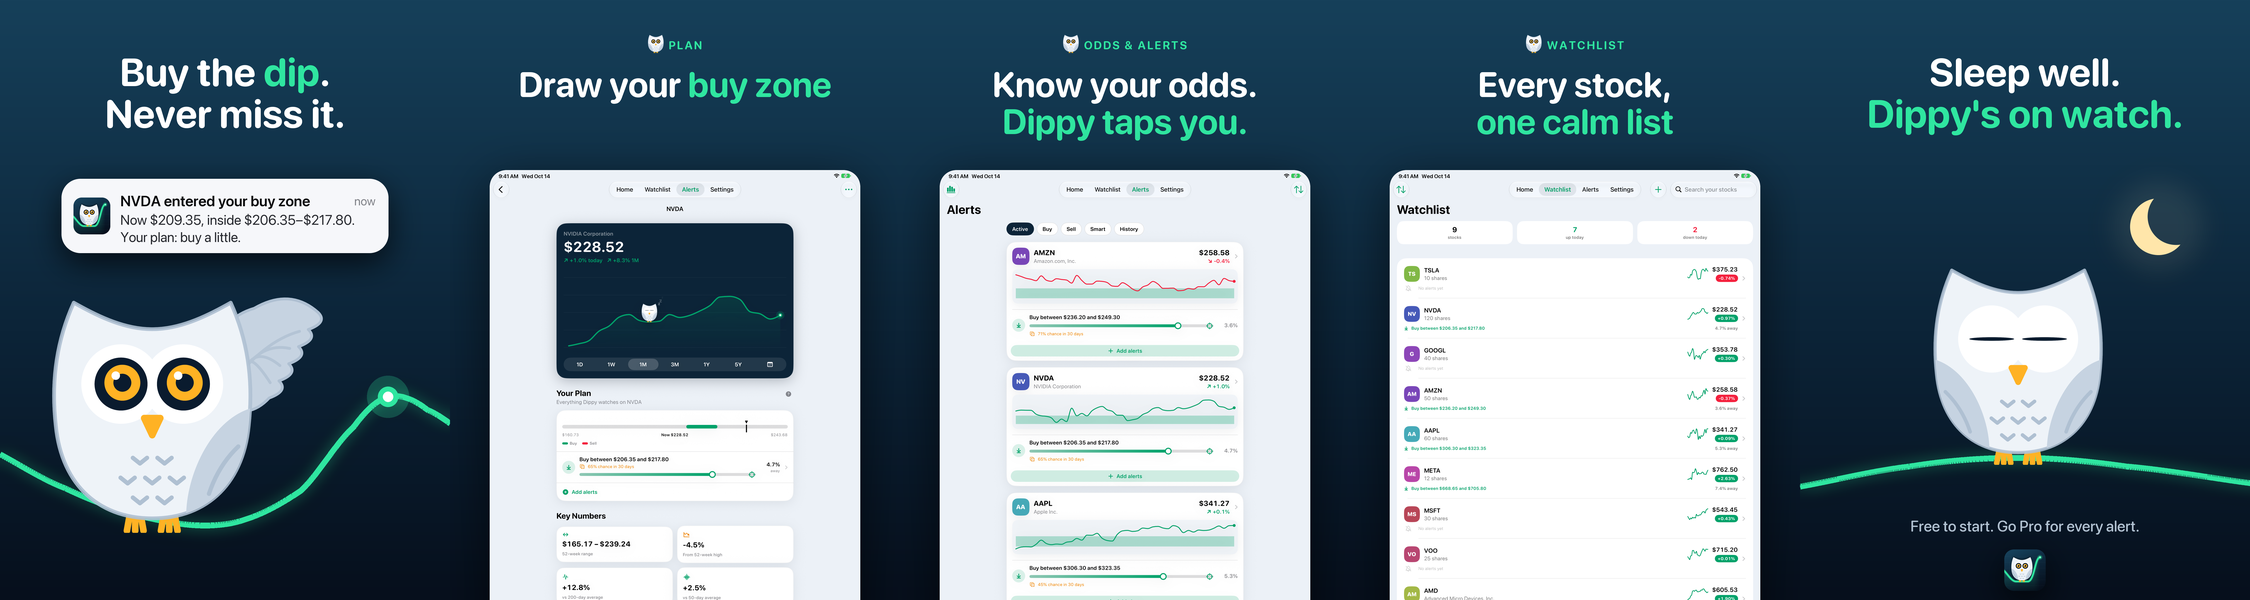
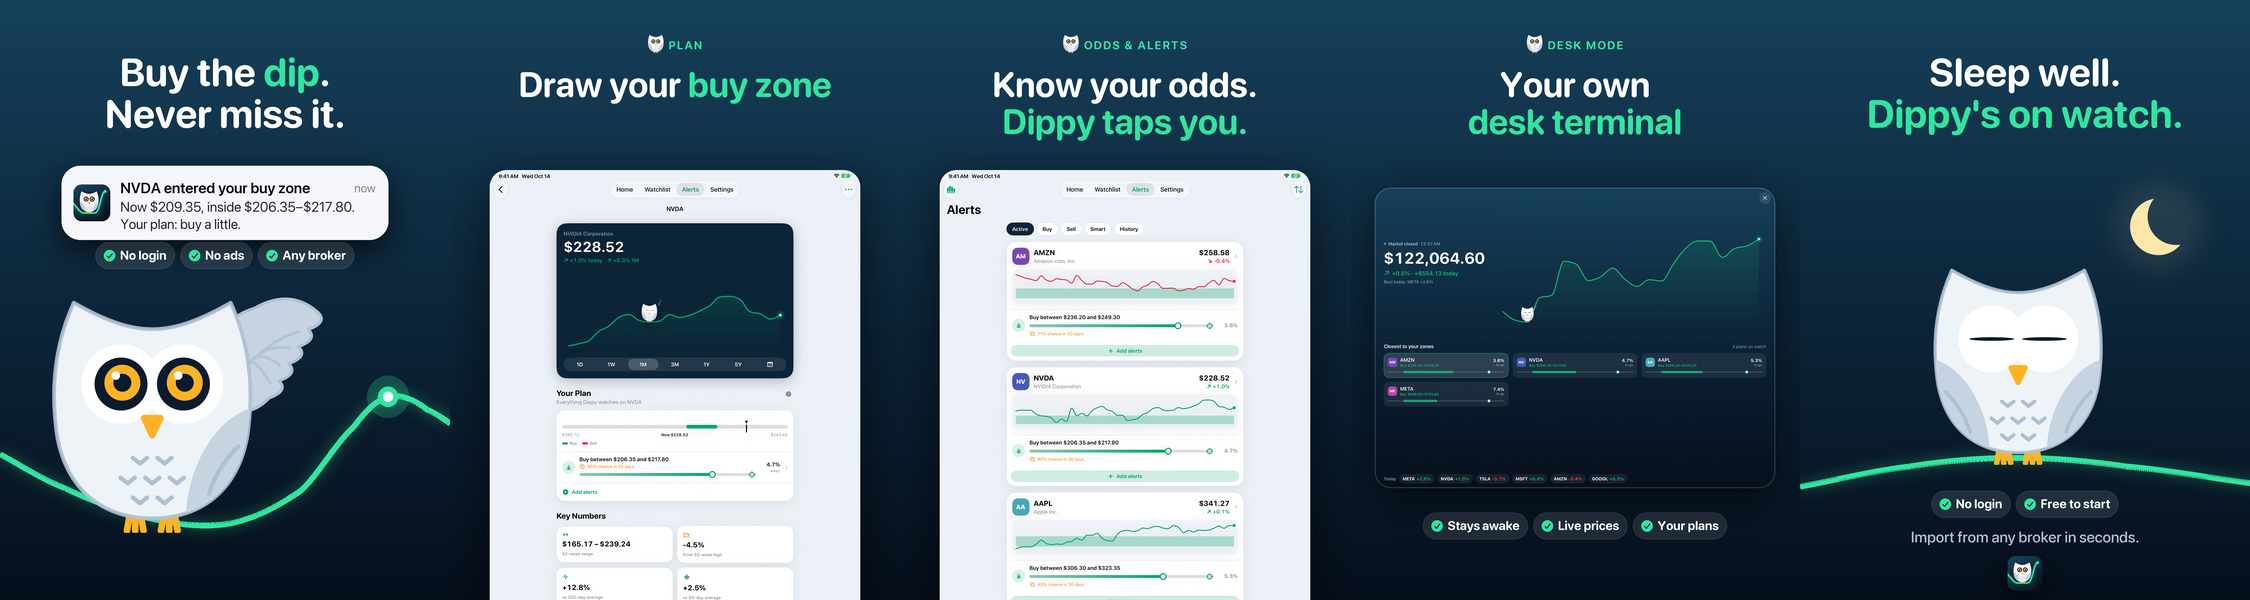
App Store set: No login pills, Drag hint on buy zone, Desk Mode frame (iPhone + iPad) replaces import/watchlist, new three-widget scene; listing renamed to Dipwise: Stock Alert & Tracker with No-login subtitle; Desk Mode translations

diff --git a/Marketing/ScreenshotStudio/compose.py b/Marketing/ScreenshotStudio/compose.py
@@ -580,6 +580,46 @@ class Frames:
         self.images = [plain_sky(size, 1) for _ in range(count)]
 
 
+
+def pills(canvas, cx, top, labels, unit=1.0, icons=None):
+    """A centered row of soft navy pills with a mint check, for promises like "No login"."""
+    draw = ImageDraw.Draw(canvas)
+    label_font = font(ROUNDED, 44 * unit, "Bold")
+    height, gap = round(96 * unit), round(18 * unit)
+    widths = [draw.textlength(label, font=label_font) + 118 * unit for label in labels]
+    x = cx - (sum(widths) + gap * (len(labels) - 1)) / 2
+    for label, w in zip(labels, widths):
+        tile = Image.new("RGBA", (round(w), height), (0, 0, 0, 0))
+        tile.paste((255, 255, 255, 26), (0, 0), rounded_mask(tile.size, height // 2))
+        td = ImageDraw.Draw(tile)
+        td.rounded_rectangle((1, 1, tile.width - 2, height - 2), radius=height // 2, outline=(255, 255, 255, 46), width=2)
+        d = round(40 * unit)
+        x0, y0 = round(30 * unit), (height - d) // 2
+        td.ellipse((x0, y0, x0 + d, y0 + d), fill=MINT)
+        td.line([(x0 + 11 * unit, y0 + 21 * unit), (x0 + 18 * unit, y0 + 28 * unit), (x0 + 30 * unit, y0 + 13 * unit)], fill=INK, width=round(5 * unit), joint="curve")
+        td.text((x0 + d + 18 * unit, height * 0.2), label, font=label_font, fill=WHITE)
+        canvas.alpha_composite(tile, (round(x), round(top)))
+        x += w + gap
+
+
+def touch(canvas, x, y, label, unit=1.0, side="left"):
+    """A finger-tap hint: mint ripples on the spot and a small label pointing at it."""
+    layer = Image.new("RGBA", canvas.size, (0, 0, 0, 0))
+    draw = ImageDraw.Draw(layer)
+    for r, a in [(92, 50), (64, 110)]:
+        draw.ellipse((x - r * unit, y - r * unit, x + r * unit, y + r * unit), outline=MINT + (a,), width=round(6 * unit))
+    draw.ellipse((x - 36 * unit, y - 36 * unit, x + 36 * unit, y + 36 * unit), fill=(255, 255, 255, 150))
+    canvas.alpha_composite(layer)
+    label_font = font(ROUNDED, 46 * unit, "Bold")
+    w = ImageDraw.Draw(canvas).textlength(label, font=label_font) + 64 * unit
+    h = round(84 * unit)
+    pill_layer = Image.new("RGBA", (round(w), h), (0, 0, 0, 0))
+    pill_layer.paste(MINT, (0, 0), rounded_mask(pill_layer.size, h // 2))
+    ImageDraw.Draw(pill_layer).text((32 * unit, h * 0.17), label, font=label_font, fill=INK)
+    px = x - 120 * unit - w if side == "left" else x + 120 * unit
+    shadowed(canvas, pill_layer, px, y - h / 2, blur=round(20 * unit), offset=round(10 * unit), opacity=120)
+
+
 def iphone_story(raw, raw_dir):
     W, H = 1320, 2868
     icon = Image.open(raw_dir / "app-icon.png")
@@ -604,11 +644,16 @@ def iphone_story(raw, raw_dir):
     line.dot(1130)
     title(c, 0, W, "Buy the *dip*.\nNever miss it.", 210, 150)
     banner = notification(1180, icon, "NVDA entered your buy zone", ["Now $209.35, inside $206.35–$217.80.", "Your plan: buy a little."])
-    lift(c, banner, (W - banner.width) / 2, 760)
+    lift(c, banner, (W - banner.width) / 2, 700)
+    pills(c, W / 2, 1000, ["No login", "No ads", "Any broker"])
     line.owl(raw_dir, "wave", 560, 860)
     frames.append(("01-buy-the-dip", c))
 
-    frames.append(("02-buy-zone", standard("Plan", "Draw your\n*buy zone*", fix_iphone_clock(raw("iphone-plan")))))
+    c = standard("Plan", "Draw your\n*buy zone*", fix_iphone_clock(raw("iphone-plan")))
+    # The editor's High handle, mapped from the capture into the frame.
+    k = 1040 / 1320
+    touch(c, (W - 1040) / 2 + 1040 * k, 720 + 1680 * k, "Drag", side="left")
+    frames.append(("02-buy-zone", c))
     frames.append(("03-odds", standard("Odds", "Know your *odds*\nbefore you buy", fix_iphone_clock(raw("iphone-stock")))))
     frames.append(("04-alert", standard("Alert", "It dips.\n*Dippy taps you.*", clean_lock_screen(raw("scene-lock")))))
     frames.append(("05-profile", standard("Your profile", "See what your\n*broker sees*", fix_iphone_clock(raw("iphone-profile")))))
@@ -630,15 +675,32 @@ def iphone_story(raw, raw_dir):
     lift(c, card(scene, WIDGET_SMALL_RIGHT, small, radius=96), W / 2 + 20, y)
     frames.append(("07-widgets", c))
 
+    # 8 · Desk Mode: the half-folded iPhone Duo, iPad, or iPhone on its side as a live desk tracker.
+    c = frame()
+    chapter(c, 0, W, "Desk Mode", 150, raw_dir)
+    title(c, 0, W, "Your own\n*desk terminal*", 255, 132)
+    desk = screen_tile(raw("desk-landscape"), 1240, corner=0.07)
+    place_screen(c, desk, W / 2, 680)
+    pills(c, W / 2, 680 + desk.height + 110, ["iPhone Duo", "iPad"])
+    draw = ImageDraw.Draw(c)
+    sub = font(ROUNDED, 50, "Medium")
+    note = "Stand it on your desk. It stays awake."
+    draw.text(((W - draw.textlength(note, font=sub)) / 2, 680 + desk.height + 270), note, font=sub, fill=SOFT)
+    line_sky = Sky((W, H), 1)
+    line_sky.canvas = c
+    tail = IconLine(line_sky, [[(-200, 2560), (300, 2470), (700, 2500), (1100, 2420), (1500, 2440)]])
+    tail.draw()
+    tail.owl(raw_dir, "wink", 980, 300)
+    frames.append(("08-desk-mode", c))
+
     # 8 · Apple Watch.
     c = frame()
     chapter(c, 0, W, "Apple Watch", 150, raw_dir)
     title(c, 0, W, "Your portfolio,\n*on your wrist*", 255, 132)
     wrist = watch(raw("watch-today"), 900)
     device(c, wrist, W / 2 - 18, 960)
-    frames.append(("08-apple-watch", c))
+    frames.append(("09-apple-watch", c))
 
-    frames.append(("09-import", standard("Import", "Your portfolio\nin *seconds*", fix_iphone_clock(raw("iphone-import")))))
 
     # 10 · Asleep under the moon.
     c = frame()
@@ -651,9 +713,10 @@ def iphone_story(raw, raw_dir):
     line.owl(raw_dir, "sleep", 640, 760)
     draw = ImageDraw.Draw(c)
     sub = font(ROUNDED, 54, "Medium")
-    text = "Free to start. Go Pro for every alert."
-    draw.text(((W - draw.textlength(text, font=sub)) / 2, 2400), text, font=sub, fill=SOFT)
-    lift(c, app_icon_tile(icon, 190), (W - 190) / 2, 2540)
+    pills(c, W / 2, 2280, ["No login", "Free to start"])
+    text = "Import from any broker in seconds."
+    draw.text(((W - draw.textlength(text, font=sub)) / 2, 2440), text, font=sub, fill=SOFT)
+    lift(c, app_icon_tile(icon, 190), (W - 190) / 2, 2560)
     frames.append(("10-start-free", c))
 
     panorama = Image.new("RGBA", (W * len(frames), H))
@@ -689,13 +752,20 @@ def ipad_story(raw, raw_dir):
     line.dot(1780)
     title(c, 0, W, "Buy the *dip*.\nNever miss it.", 220, 180)
     banner = notification(1500, icon, "NVDA entered your buy zone", ["Now $209.35, inside $206.35–$217.80.", "Your plan: buy a little."])
-    lift(c, banner, (W - banner.width) / 2, 820, u)
+    lift(c, banner, (W - banner.width) / 2, 760, u)
+    pills(c, W / 2, 1110, ["No login", "No ads", "Any broker"], unit=1.3)
     line.owl(raw_dir, "wave", 860, 1080)
     frames.append(("01-buy-the-dip", c))
 
     frames.append(("02-buy-zone", standard("Plan", "Draw your *buy zone*", raw("ipad-stock"))))
     frames.append(("03-alert", standard("Odds & alerts", "Know your odds.\n*Dippy taps you.*", raw("ipad-alerts"))))
-    frames.append(("04-watchlist", standard("Watchlist", "Every stock,\n*one calm list*", raw("ipad-watchlist"))))
+    c = frame()
+    chapter(c, 0, W, "Desk Mode", 160, raw_dir, unit=1.3)
+    title(c, 0, W, "Your own\n*desk terminal*", 290, 160)
+    desk = screen_tile(raw("desk-ipad"), 1840, u, corner=0.04)
+    place_screen(c, desk, W / 2, 860, u)
+    pills(c, W / 2, 860 + desk.height + 110, ["Stays awake", "Live prices", "Your plans"], unit=1.3)
+    frames.append(("04-desk-mode", c))
 
     c = frame()
     sky = Sky((W, H), 1)
@@ -707,9 +777,10 @@ def ipad_story(raw, raw_dir):
     line.owl(raw_dir, "sleep", 1000, 900)
     draw = ImageDraw.Draw(c)
     sub = font(ROUNDED, 70, "Medium")
-    text = "Free to start. Go Pro for every alert."
-    draw.text(((W - draw.textlength(text, font=sub)) / 2, 2370), text, font=sub, fill=SOFT)
-    lift(c, app_icon_tile(icon, 190), (W - 190) / 2, 2520, u)
+    pills(c, W / 2, 2250, ["No login", "Free to start"], unit=1.3)
+    text = "Import from any broker in seconds."
+    draw.text(((W - draw.textlength(text, font=sub)) / 2, 2420), text, font=sub, fill=SOFT)
+    lift(c, app_icon_tile(icon, 160), (W - 160) / 2, 2550, u)
     frames.append(("05-start-free", c))
 
     panorama = Image.new("RGBA", (W * len(frames), H))

diff --git a/Marketing/AppStore/Listing.md b/Marketing/AppStore/Listing.md
@@ -2,22 +2,22 @@
 
 Copy each field into App Store Connect → your app → the version page. Every field is within Apple's limits.
 
-## App name (27/30)
-Dipwise: Buy the Dip Alerts
+## App name (30/30)
+Dipwise: Stock Alert & Tracker
 
-## Subtitle (27/30)
-Stock price zones & widgets
+## Subtitle (25/30)
+Buy dips. No login needed
 
-## Keywords (97/100)
-stock,price,portfolio,tracker,watchlist,dividend,rsi,invest,market,etf,crypto,signal,widget,trade
+## Keywords (95/100)
+price,portfolio,watchlist,dividend,rsi,invest,market,etf,crypto,signal,widget,dip,buy,zone,desk
 
-Words already in the name and subtitle (dip, alerts, buy, zones, widgets) are indexed automatically, so they aren't repeated here.
+Words already in the name and subtitle (stock, alert, tracker, login) are indexed automatically, so they aren't repeated here. "Stock alert" and "stock tracker" are among the most searched finance phrases, which is why they lead the name.
 
 ## Promotional text (143/170)
-Buy the dip with a plan. Draw your buy zone and Dippy taps you the second a stock gets there. Widgets, Apple Watch, and broker import included.
+Buy the dip with a plan. Draw your buy zone and Dippy taps you the second a stock gets there. No login, no ads. Widgets, Desk Mode, and Apple Watch included.
 
 ## Description
-Buy the dip. Calmly.
+Buy the dip. Calmly. No account, no login: open the app and start.
 
 Dipwise turns "I'd buy it if it dropped" into a plan that watches itself. Draw the price range where you'd happily buy, and the range where you'd take profit. Dippy, your stock-watching owl, keeps an eye on the market day and night and taps you the moment a stock gets there.
 
@@ -48,8 +48,8 @@ YOUR PORTFOLIO, IN ONE CALM PLACE
 • A watchlist with prices, trends, and how close each plan is
 
 LIVING WIDGETS AND APPLE WATCH
-• Home Screen widgets for your plans, a stock's chart and zones, today's movers, and your streak
-• A Portfolio widget with your value, today's move, and your closest buy zone in plain words
+• Three widgets made for buying the dip: your Portfolio, Your Plans (the stocks closest to your zones, with how far each has to go), and a Stock Plan with its chart and zone
+• Desk Mode: stand a half-folded iPhone Duo, an iPad, or an iPhone on its side on your desk, and it becomes an always-on tracker with your portfolio, your plans, and today's movers
 • On Apple Watch: your portfolio, closest plans, and charts you scrub with the Digital Crown, plus complications for your portfolio and market hours
 
 A ONE-MINUTE DAILY HABIT
@@ -102,7 +102,7 @@ The app is translated into German, Spanish, French, Italian, Brazilian Portugues
 
 The set is built from the app icon itself: deep navy, Dippy, and the icon's glowing mint price line. That line runs unbroken through every image, so swiping follows one chart. It slides into the buy zone, pings the alert at the bottom, and climbs to a peak where Dippy falls asleep under the moon. Phones alternate sides to leave Dippy an open lane on the line, where he comments on each step in a speech bubble. Where a detail matters, a magnifier enlarges that exact part of the screen right over where it sits.
 
-The first frame is the icon at full size, with the real alert arriving above Dippy. The next two carry the promise (draw your zone, know your odds), because the first three are the only ones shown in search results. All captures match the App Store build: Flock hidden, U.S. English, dollars, and prices frozen on one day so every screen agrees.
+The first and last frames say "No login" in pills, and the buy-zone frame shows a finger hint on the handle you drag. The first frame is the icon at full size, with the real alert arriving above Dippy. The next two carry the promise (draw your zone, know your odds), because the first three are the only ones shown in search results. All captures match the App Store build: Flock hidden, U.S. English, dollars, and prices frozen on one day so every screen agrees.
 
 `preview-iphone.png` and `preview-ipad.png` show each whole panorama; `preview-watch.png` shows the watch set.
 
@@ -119,8 +119,8 @@ Each image is its own clean page in the icon's navy: a small Dippy chapter mark,
 | 5 | 05-profile.png | Your profile | See what your broker sees |
 | 6 | 06-smart-alerts.png | Signals | 27 smart alerts, plain English |
 | 7 | 07-widgets.png | Home Screen | Your plans, always in sight |
-| 8 | 08-apple-watch.png | Apple Watch | Your portfolio, on your wrist |
-| 9 | 09-import.png | Import | Your portfolio in seconds |
+| 8 | 08-desk-mode.png | Desk Mode | Your own desk terminal |
+| 9 | 09-apple-watch.png | Apple Watch | Your portfolio, on your wrist |
 | 10 | 10-start-free.png | — | Sleep well. Dippy's on watch. |
 
 Apple scales the 6.9-inch set down for every smaller iPhone. `iPhone-6.5/` has the same images at 1284 × 2778.
@@ -134,7 +134,7 @@ Required, because Dipwise runs on iPad. Apple scales this set down for smaller i
 | 1 | 01-buy-the-dip.png | Buy the dip. Never miss it. |
 | 2 | 02-buy-zone.png | Draw your buy zone |
 | 3 | 03-alert.png | It dips. Dippy taps you. |
-| 4 | 04-watchlist.png | Every stock, one calm list |
+| 4 | 04-desk-mode.png | Your own desk terminal |
 | 5 | 05-start-free.png | Sleep well. Dippy's on watch. |
 
 ### Apple Watch Ultra (422 × 514), from `AppleWatch-Ultra/`
